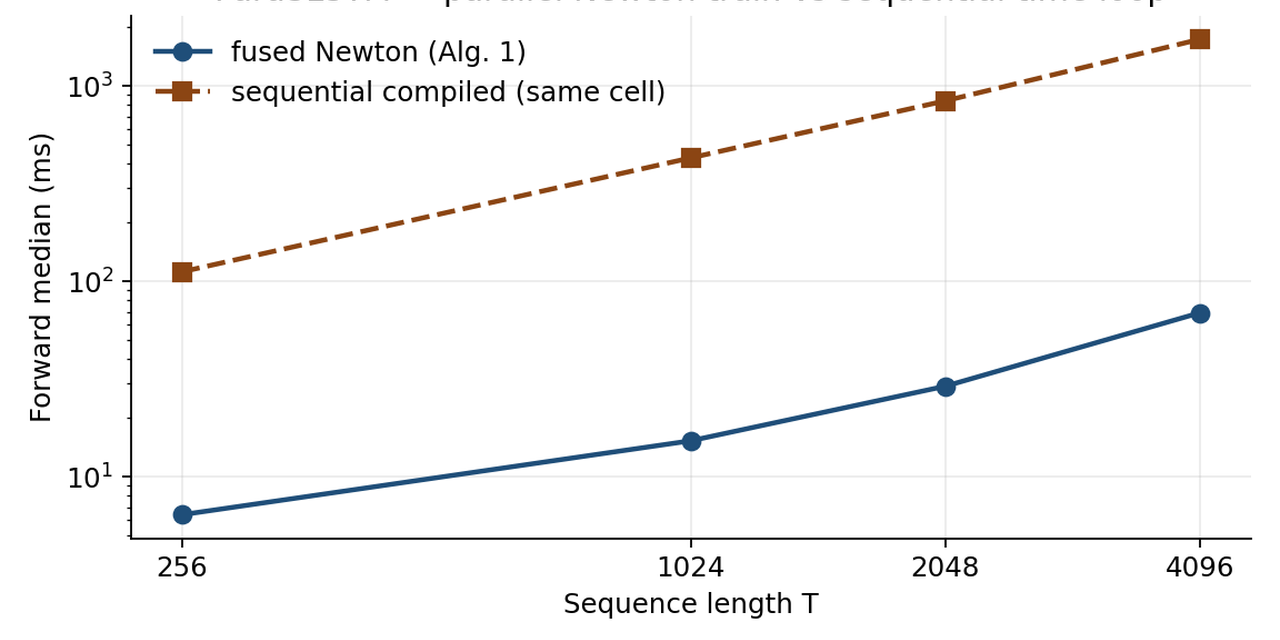
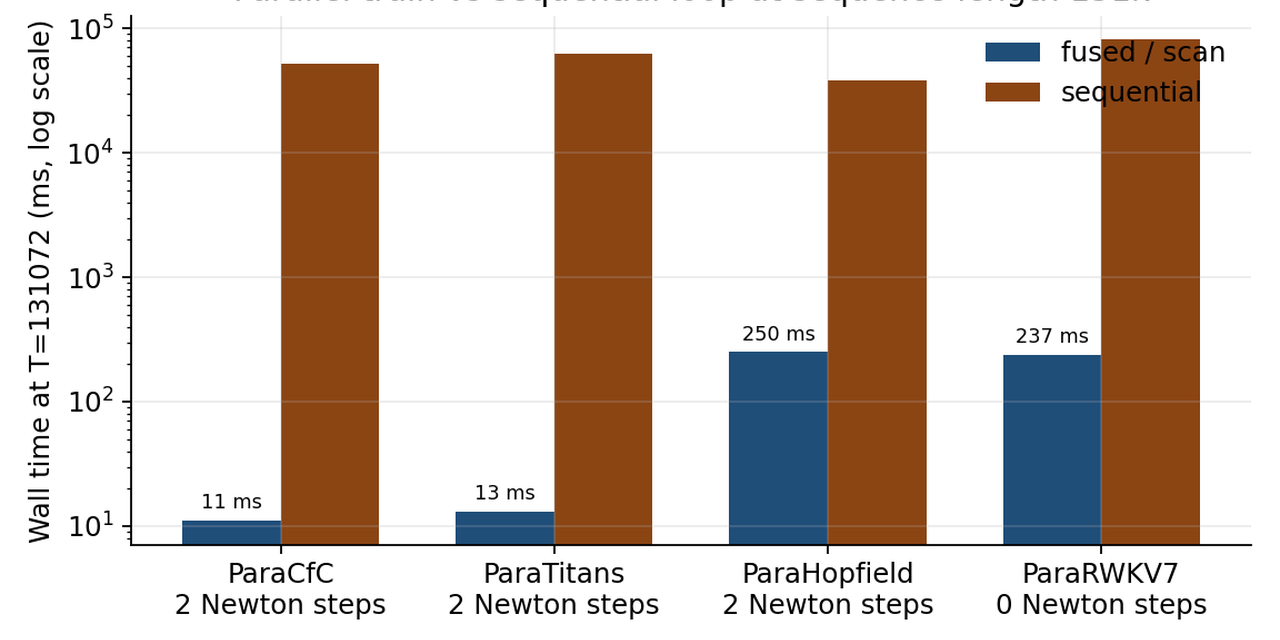
Use K*(T) bar chart for GitHub social preview.

diff --git a/README.md b/README.md
@@ -54,9 +54,9 @@ RTX 2080 Ti). **bf16 fused** needs Ampere+ (CC ≥ 8.0). Elsewhere
 - **[2026-09]** Factorized Newton for Dreamer-style `ParaGRU(mix='head')`;
   matrix-state M²RNN with measured iteration growth.
 
-![ParaSLSTM fused Newton vs sequential](assets/slstm_fused_vs_sequential.png)
+![Newton iterations and wall time at T=131072](assets/k_star_wall_131k.png)
 
-Diag-sLSTM fused Newton vs sequential (lab, see [Benchmarks](#benchmarks)).
+Parallel vs sequential wall time at T=131072 (lab, see [Benchmarks](#benchmarks)).
 
 ## What you get
 

diff --git a/CHANGELOG.md b/CHANGELOG.md
@@ -19,7 +19,7 @@ Public GitHub launch, ParaSLSTM Zenodo v2, inference contract, wheel smoke.
   `uv build` + twine + clean-venv smoke outside the repo.
 - [`assets/social-preview.png`](assets/social-preview.png) /
   [`.github/social-preview.png`](.github/social-preview.png) — 1280×640
-  speedup card for GitHub Social preview.
+  K*(T) bar card (`k_star_wall_131k.png`) for GitHub Social preview.
 
 ### Changed
 
